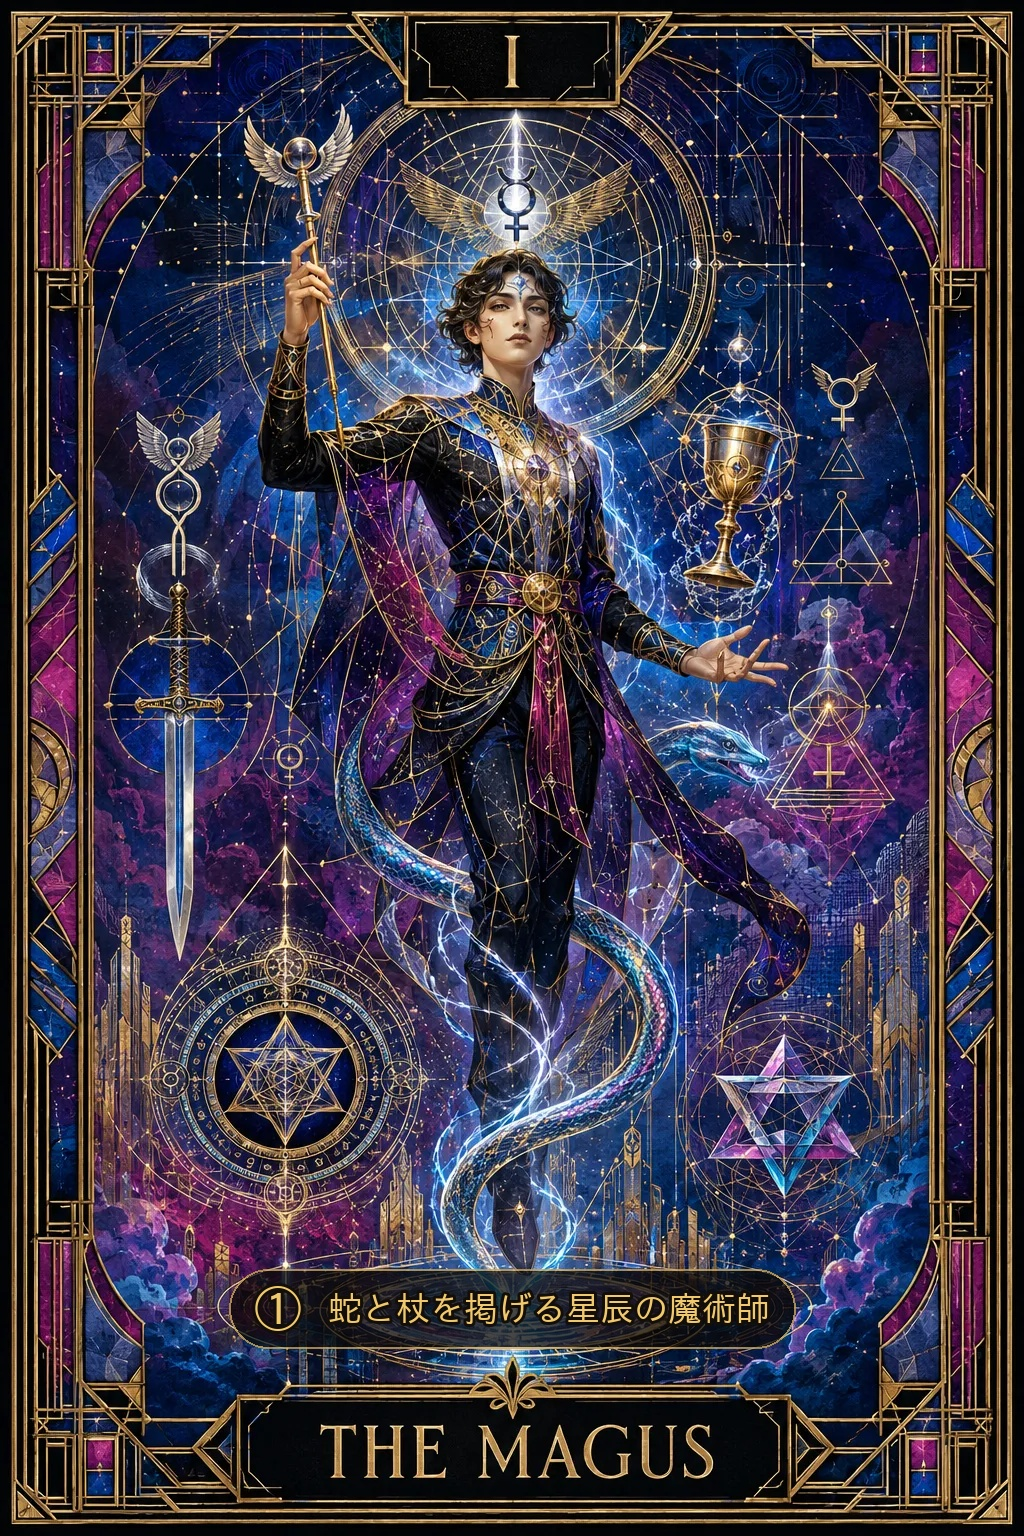
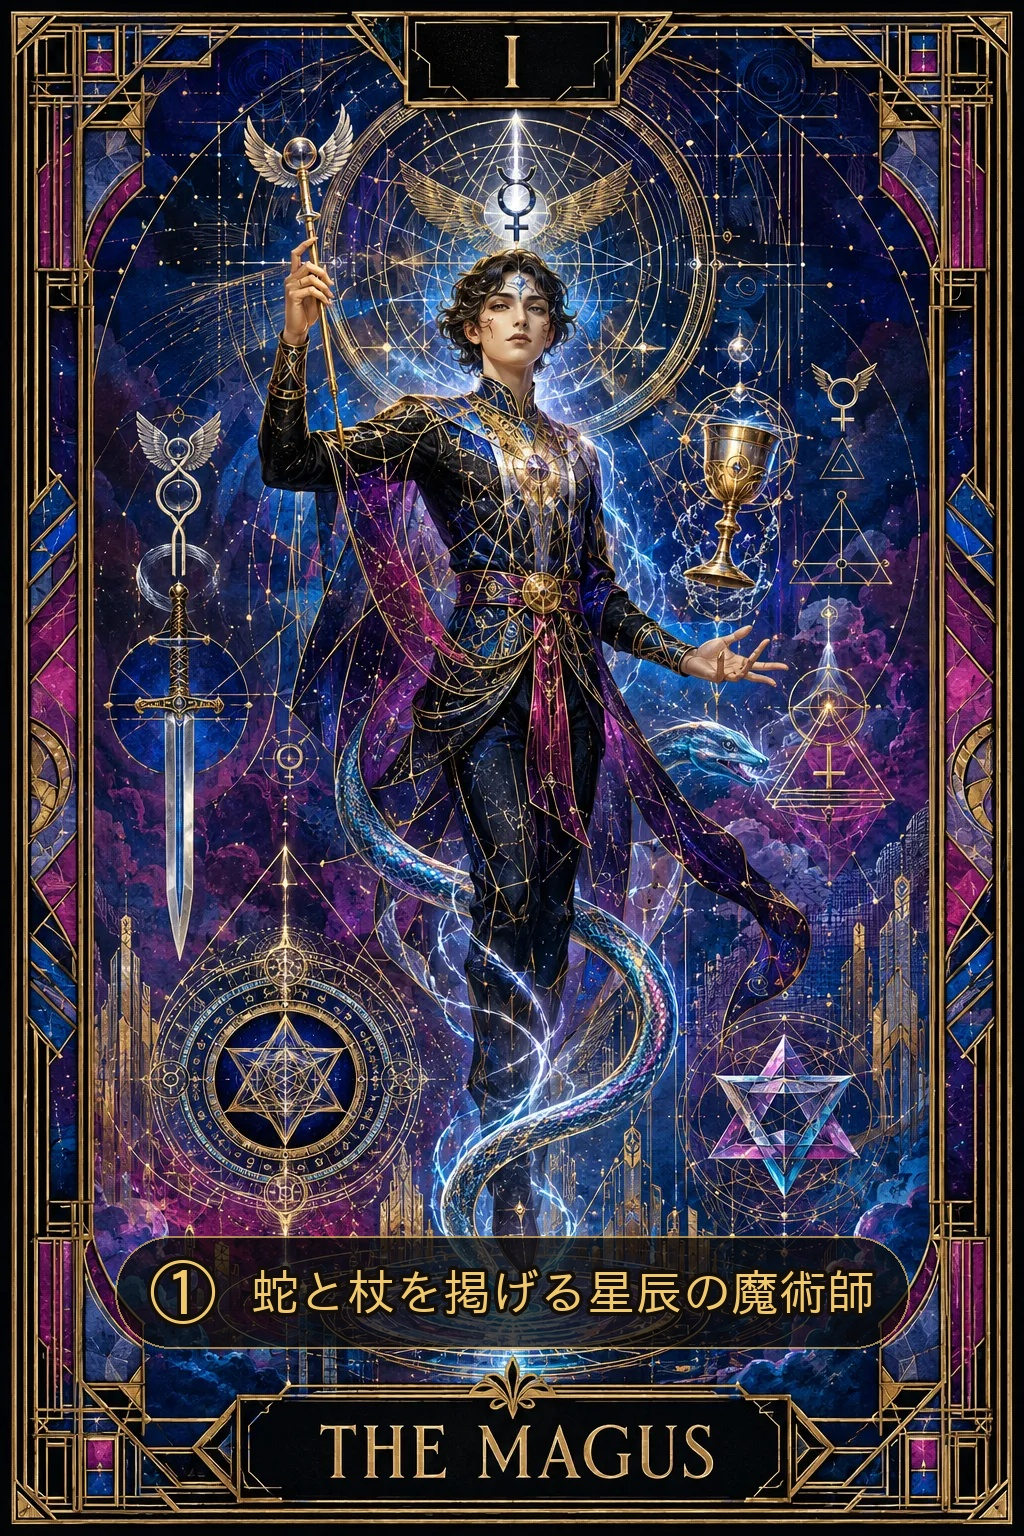
Increase caption text size
Claude-Session: https://claude.ai/code/session_01E3LYNYiyjUHnDKgqv1dskK

Changed region(s): [[0.0938, 0.7812, 0.9062, 0.9062]]

diff --git a/video/annotate_card.py b/video/annotate_card.py
@@ -38,14 +38,14 @@ def annotate(image_path, roman_number, caption_ja, out_path):
     gold = (240, 200, 110, 255)
     dark = (20, 14, 8, 255)
 
-    num_font = ImageFont.truetype(FONT_PATH, 48)
-    name_font = ImageFont.truetype(FONT_PATH, 34)
-    gap = 20
+    num_font = ImageFont.truetype(FONT_PATH, 68)
+    name_font = ImageFont.truetype(FONT_PATH, 48)
+    gap = 26
 
     num_text = ROMAN_TO_CIRCLED[roman_number]
-    num_bbox = draw.textbbox((0, 0), num_text, font=num_font, stroke_width=3)
+    num_bbox = draw.textbbox((0, 0), num_text, font=num_font, stroke_width=4)
     num_w = num_bbox[2] - num_bbox[0]
-    name_bbox = draw.textbbox((0, 0), caption_ja, font=name_font, stroke_width=3)
+    name_bbox = draw.textbbox((0, 0), caption_ja, font=name_font, stroke_width=4)
     name_w = name_bbox[2] - name_bbox[0]
 
     total_w = num_w + gap + name_w
@@ -53,7 +53,7 @@ def annotate(image_path, roman_number, caption_ja, out_path):
 
     banner_top_y = detect_banner_top_y(img.convert("RGB"))
 
-    pad_x, pad_y = 22, 14
+    pad_x, pad_y = 30, 20
     badge_h = max(num_bbox[3] - num_bbox[1], name_bbox[3] - name_bbox[1]) + pad_y * 2
     margin = 14
     cy = banner_top_y - margin - badge_h / 2
@@ -68,12 +68,12 @@ def annotate(image_path, roman_number, caption_ja, out_path):
 
     num_h = num_bbox[3] - num_bbox[1]
     draw.text((start_x - num_bbox[0], cy - num_h / 2 - num_bbox[1]), num_text,
-              font=num_font, fill=gold, stroke_width=3, stroke_fill=dark)
+              font=num_font, fill=gold, stroke_width=4, stroke_fill=dark)
 
     name_h = name_bbox[3] - name_bbox[1]
     name_x = start_x + num_w + gap
     draw.text((name_x - name_bbox[0], cy - name_h / 2 - name_bbox[1]), caption_ja,
-              font=name_font, fill=gold, stroke_width=3, stroke_fill=dark)
+              font=name_font, fill=gold, stroke_width=4, stroke_fill=dark)
 
     img.convert("RGB").save(out_path, quality=95)
     print("wrote", out_path)
